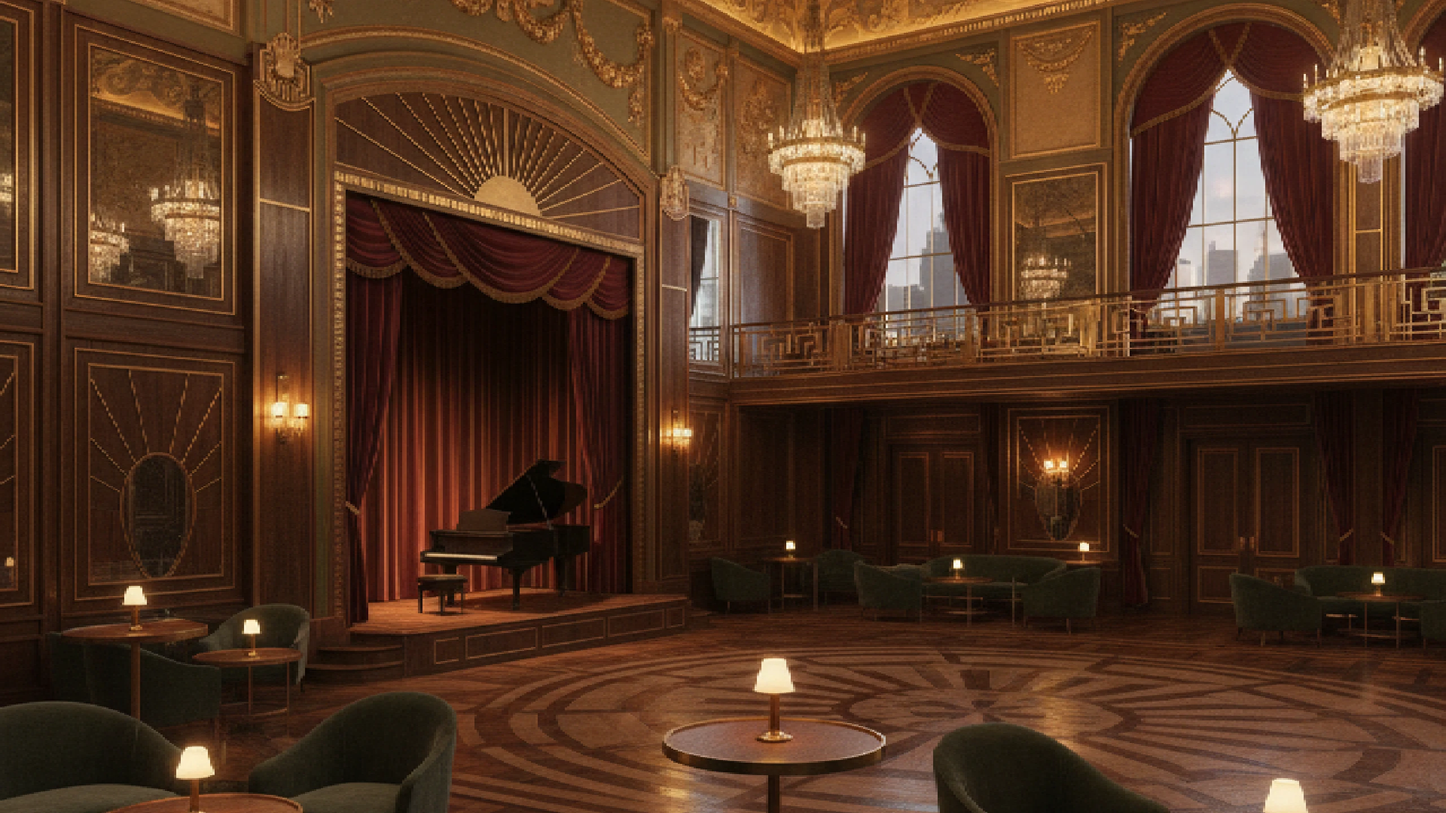
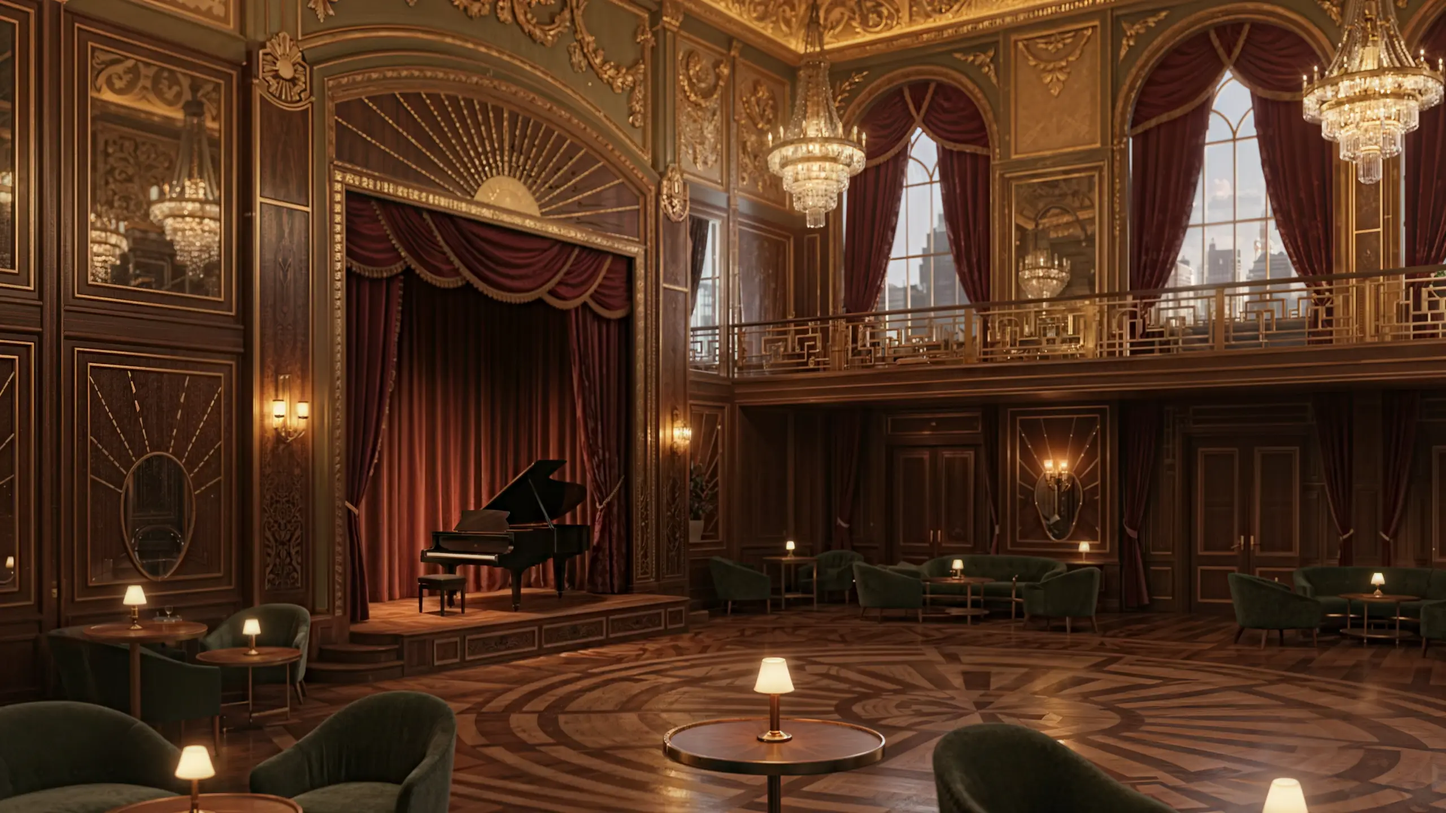
Image file upscale and rename

diff --git a/app/elevator/page.tsx b/app/elevator/page.tsx
@@ -34,7 +34,7 @@ export default function ElevatorPage() {
     <main
       className="relative w-full min-h-screen flex items-start justify-center px-6 pt-6 pb-24 sm:py-10 overflow-hidden"
       style={{
-        backgroundImage: "url('/images/elevator.jpg')",
+        backgroundImage: "url('/images/elevator.webp')",
         backgroundSize: "cover",
         backgroundPosition: "center",
       }}

diff --git a/app/not-found.tsx b/app/not-found.tsx
@@ -11,7 +11,7 @@ export default function NotFound() {
     <main
       className="relative w-full min-h-screen bg-black overflow-hidden flex items-center justify-center px-6 py-10"
       style={{
-        backgroundImage: "url('/images/not-found.png')",
+        backgroundImage: "url('/images/not-found.webp')",
         backgroundSize: "cover",
         backgroundPosition: "center",
       }}

diff --git a/app/ballroom/page.tsx b/app/ballroom/page.tsx
@@ -21,7 +21,7 @@ export default function BallroomPage() {
     <main
       className="relative w-full min-h-screen flex items-start justify-center px-6 pt-6 pb-24 sm:py-10"
       style={{
-        backgroundImage: "url('/images/ballroom.png')",
+        backgroundImage: "url('/images/ballroom.webp')",
         backgroundSize: "cover",
         backgroundPosition: "center",
       }}

diff --git a/app/solarium/page.tsx b/app/solarium/page.tsx
@@ -15,7 +15,7 @@ export default function SolariumPage() {
     <main
       className="relative w-full min-h-screen flex items-start justify-center px-6 pt-6 pb-24 sm:py-10"
       style={{
-        backgroundImage: "url('/images/solarium.png')",
+        backgroundImage: "url('/images/solarium.webp')",
         backgroundSize: "cover",
         backgroundPosition: "center",
       }}

diff --git a/app/boiler/page.tsx b/app/boiler/page.tsx
@@ -21,7 +21,7 @@ export default function BoilerRoomPage() {
     <main
       className="relative w-full min-h-screen flex items-start justify-center px-6 pt-6 pb-24 sm:py-10"
       style={{
-        backgroundImage: "url('/images/boiler.png')",
+        backgroundImage: "url('/images/boiler.webp')",
         backgroundSize: "cover",
         backgroundPosition: "center",
       }}

diff --git a/app/chapel/page.tsx b/app/chapel/page.tsx
@@ -6,7 +6,7 @@ export default function ChapelPage() {
     <main
       className="relative w-full min-h-screen flex items-start justify-center px-6 pt-6 pb-24 sm:py-10"
       style={{
-        backgroundImage: "url('/images/chapel.png')",
+        backgroundImage: "url('/images/chapel.webp')",
         backgroundSize: "cover",
         backgroundPosition: "center",
       }}

diff --git a/app/desk/page.tsx b/app/desk/page.tsx
@@ -25,7 +25,7 @@ export default function DeskPage() {
       <div
         className="absolute inset-0 z-0"
         style={{
-          backgroundImage: "url('/images/desk-16x9.webp')",
+          backgroundImage: "url('/images/desk.webp')",
           backgroundSize: "cover",
           backgroundPosition: "center",
           backgroundRepeat: "no-repeat",

diff --git a/app/page.tsx b/app/page.tsx
@@ -26,7 +26,7 @@ export default function Lobby() {
       <div
         className="absolute inset-0"
         style={{
-          backgroundImage: "url('/images/lobby-16x9.webp')",
+          backgroundImage: "url('/images/lobby.webp')",
           backgroundSize: "cover",
           backgroundPosition: "center",
           backgroundRepeat: "no-repeat",

diff --git a/app/guest/page.tsx b/app/guest/page.tsx
@@ -13,7 +13,7 @@ export default function GuestRegisterPage() {
       className="
         relative w-full min-h-screen bg-black
         overflow-x-hidden
-        bg-[url('/images/guest-register.png')]
+        bg-[url('/images/guest-register.webp')]
         bg-no-repeat bg-cover
         bg-position-[50%_50%]
       "

diff --git a/app/lost-and-found/page.tsx b/app/lost-and-found/page.tsx
@@ -46,7 +46,7 @@ export default async function LostAndFoundPage({
       <div
         className="absolute inset-0 bg-cover bg-center"
         style={{
-          backgroundImage: "url('/images/drawer-open16x9.webp')",
+          backgroundImage: "url('/images/lost.webp')",
         }}
       />
 
